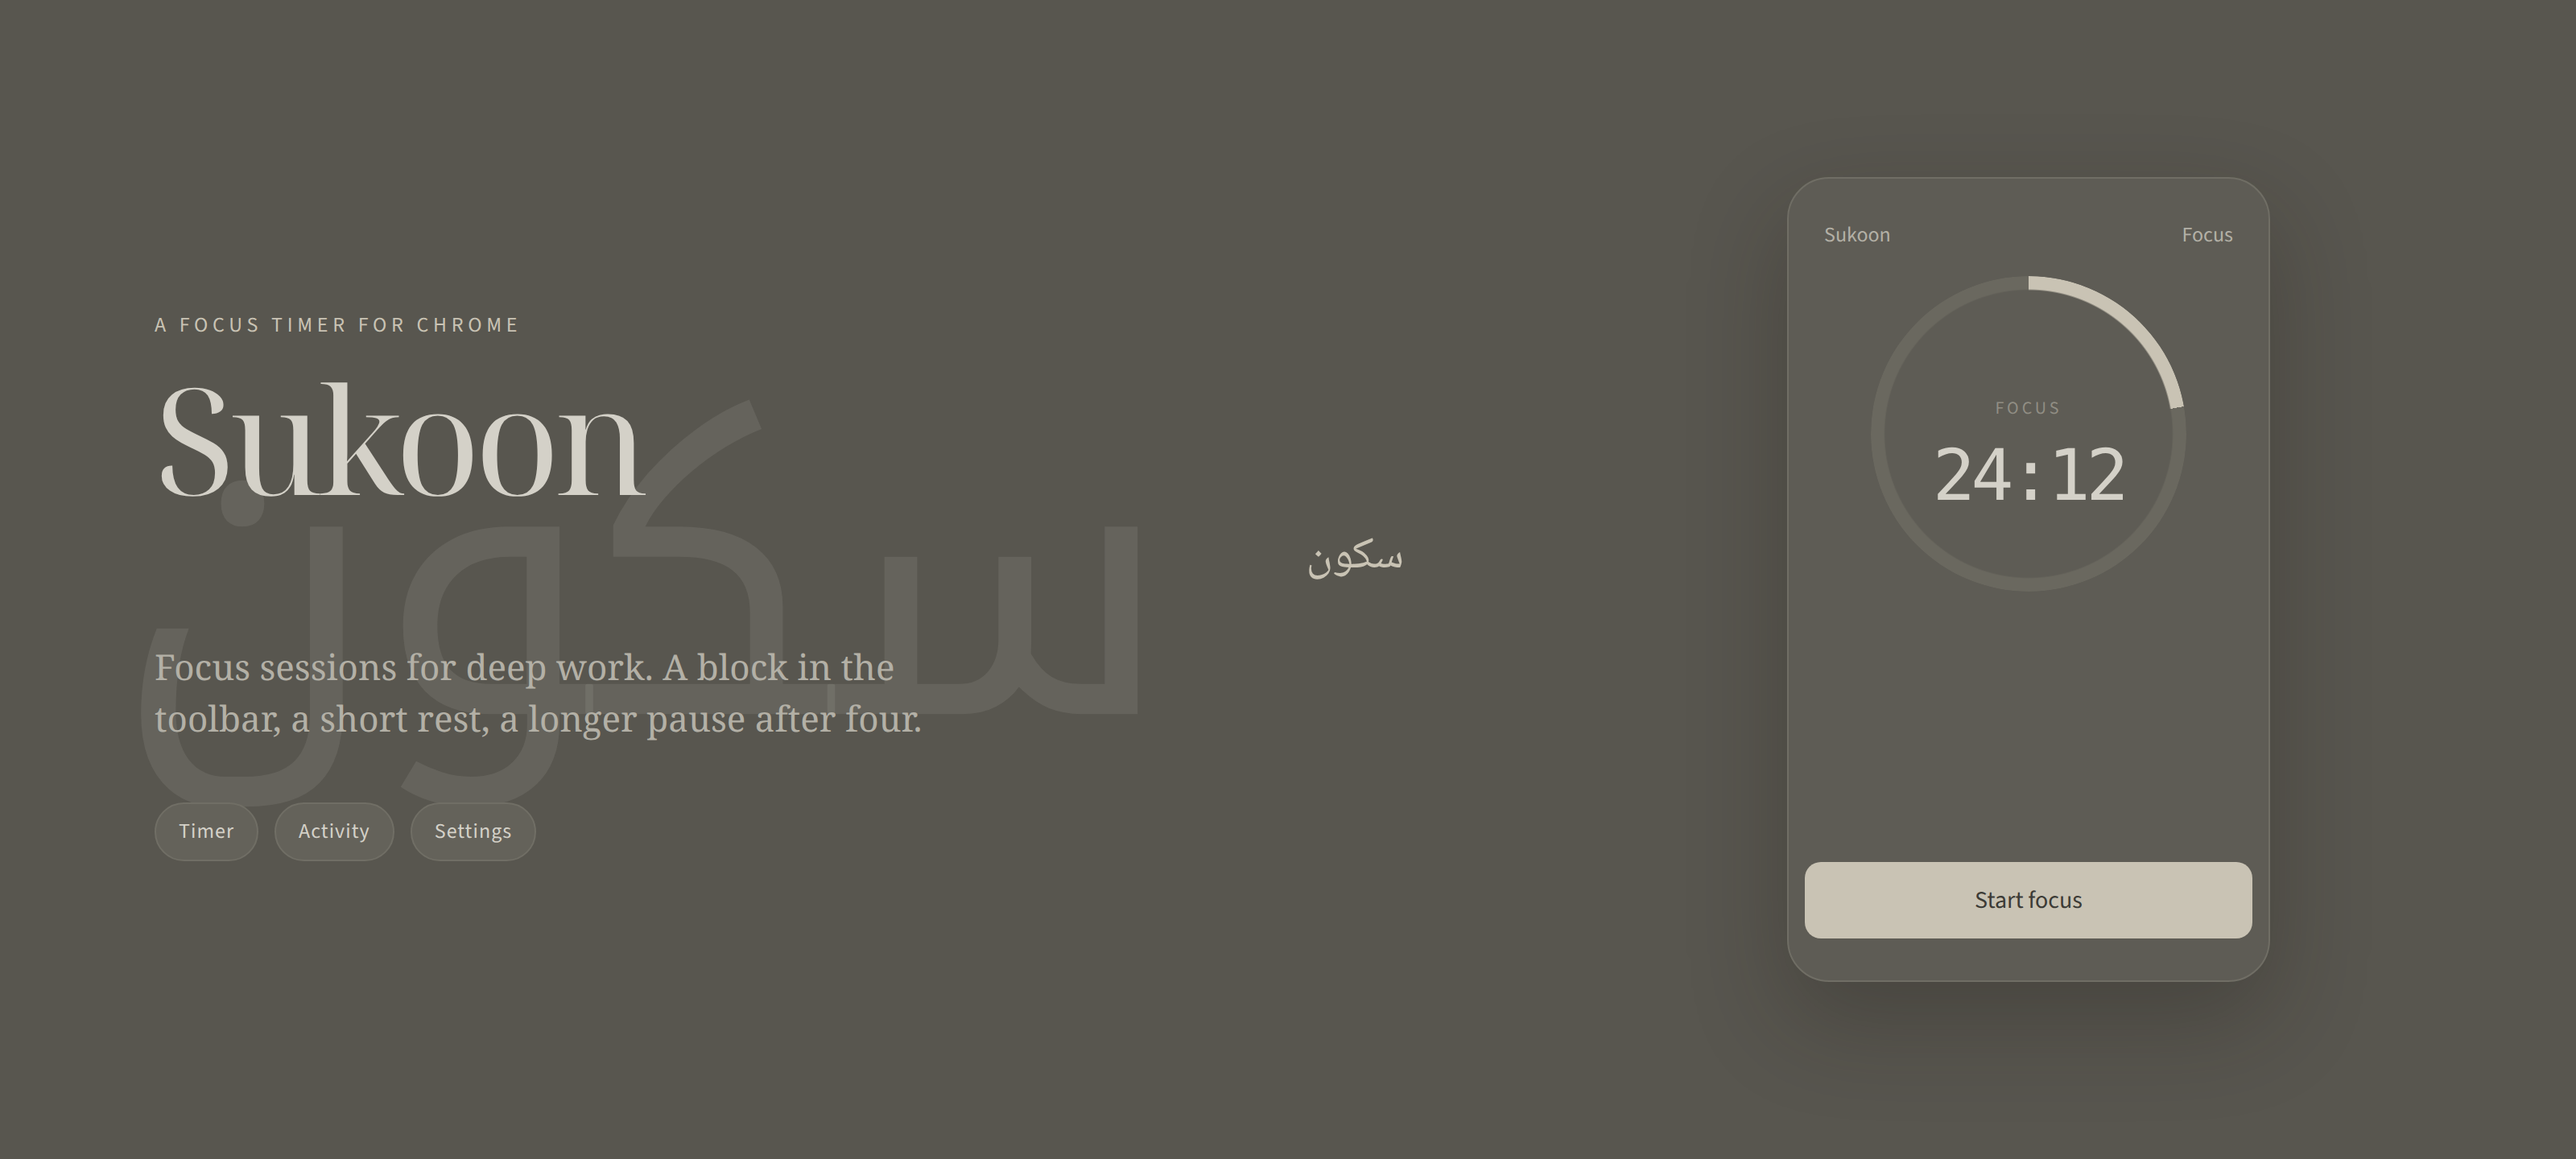
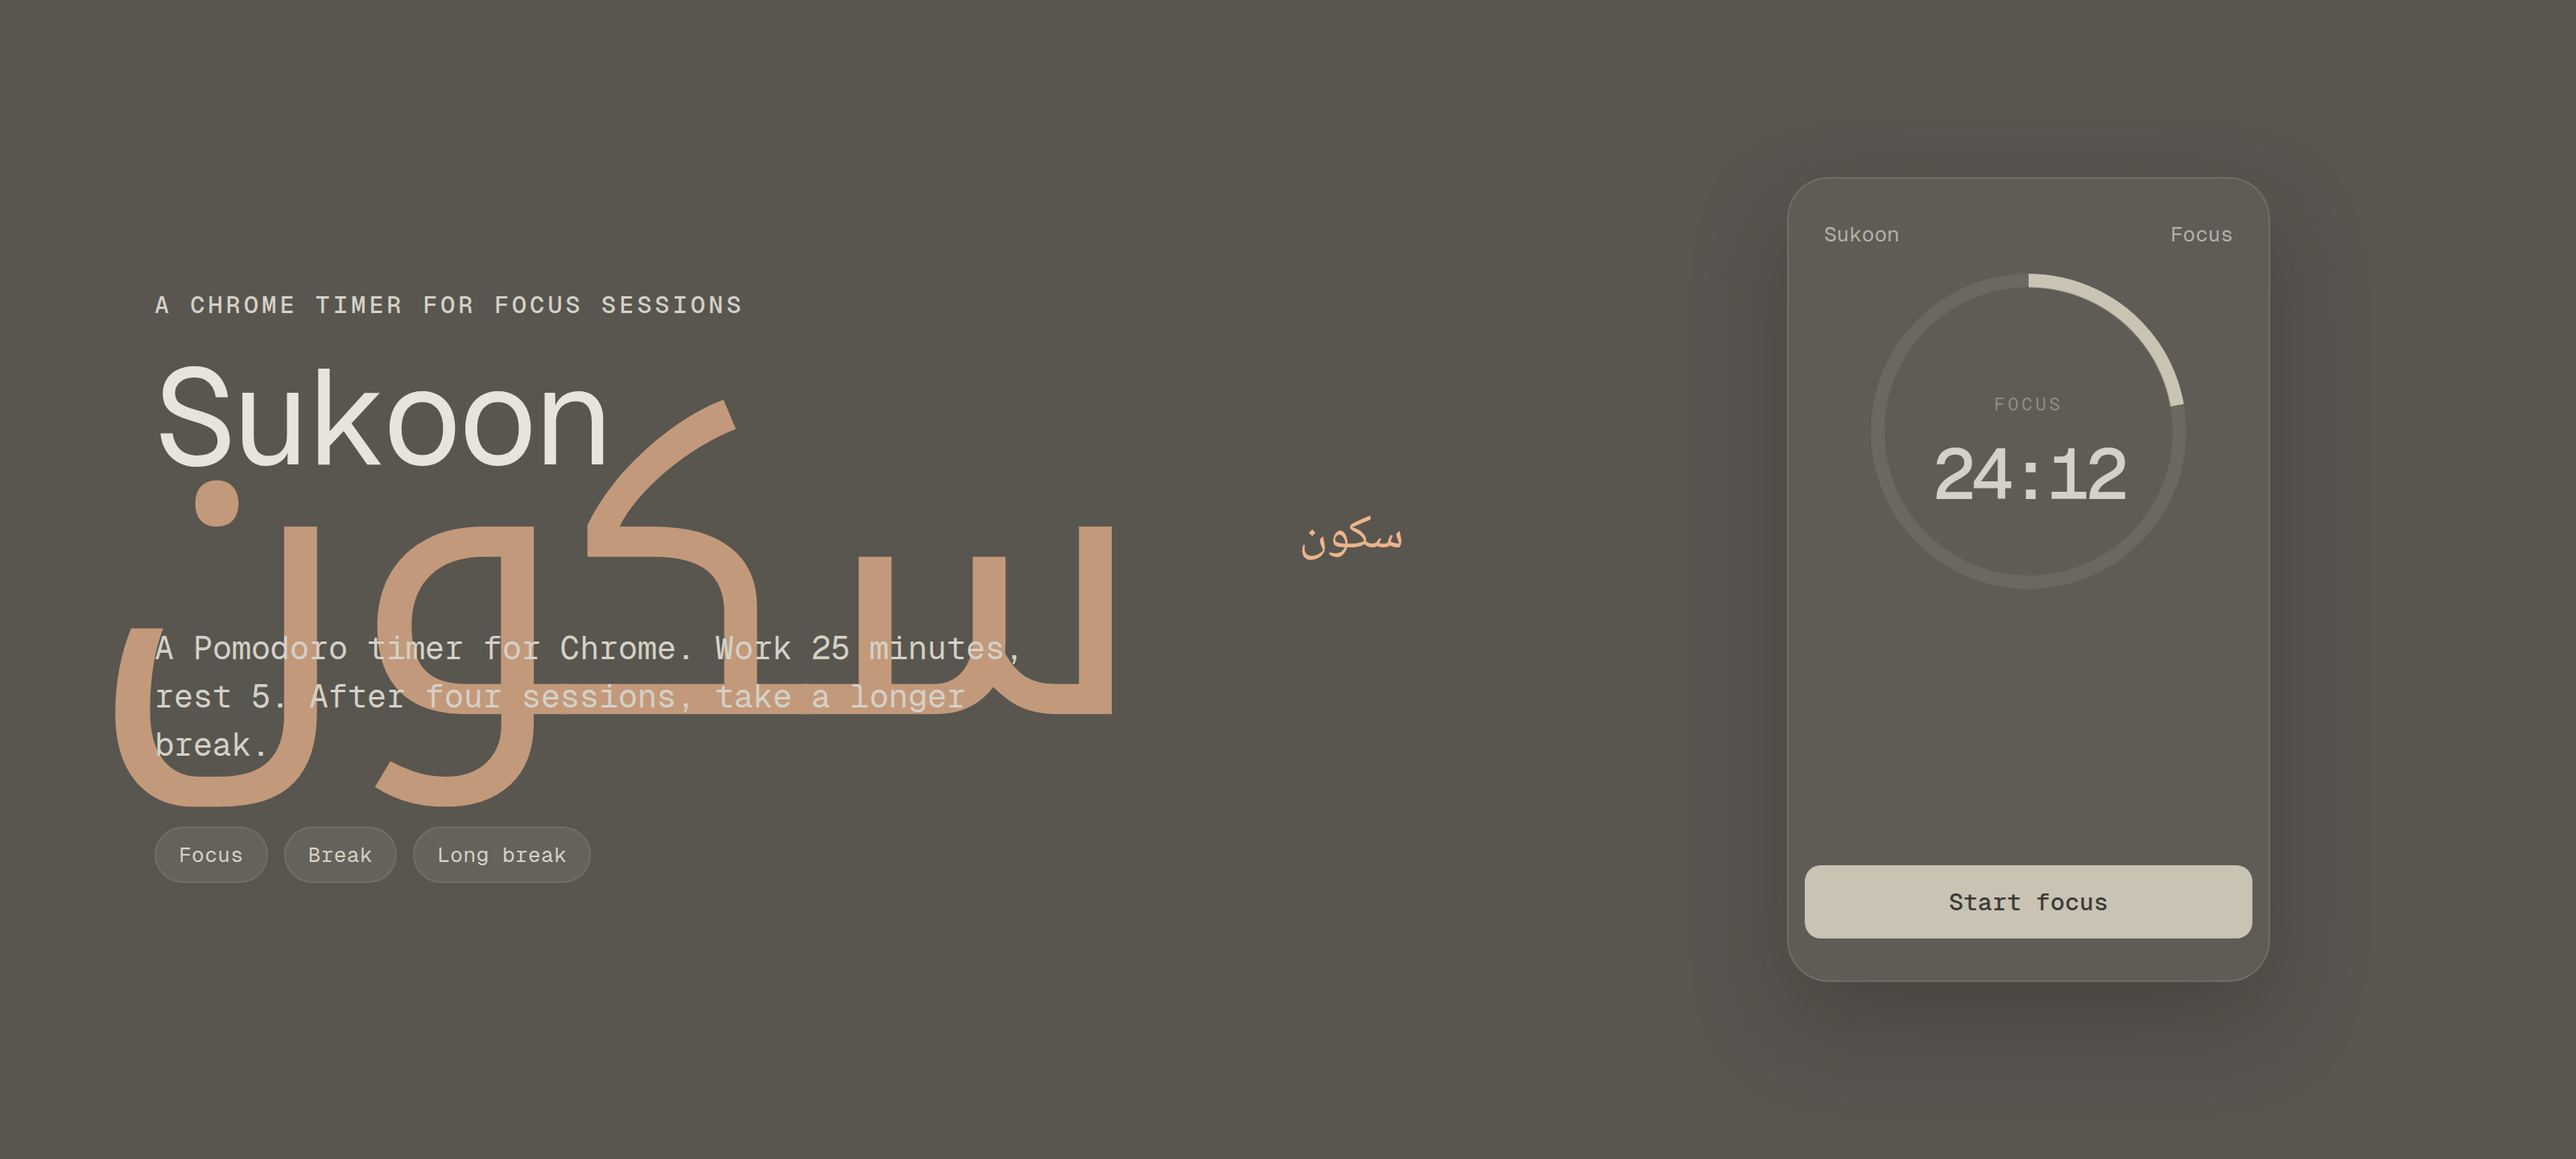
Set the cover in Geist Mono and spell out the product in English
Banner kicker and body use Geist Mono. Background سكون is rose-gold amber
so it reads. Copy says it is a Chrome Pomodoro timer: 25 minutes of work,
5 of rest, a longer break after four. README setup is the clicks for
local load and the Chrome Web Store zip.

diff --git a/docs/banners/moment.html b/docs/banners/moment.html
@@ -4,6 +4,30 @@
     <meta charset="UTF-8" />
     <title>Sukoon</title>
     <style>
+      @font-face {
+        font-family: "Geist Mono";
+        src: url("./fonts/GeistMono-Regular.woff2") format("woff2");
+        font-weight: 400;
+        font-style: normal;
+        font-display: block;
+      }
+
+      @font-face {
+        font-family: "Geist Mono";
+        src: url("./fonts/GeistMono-Medium.woff2") format("woff2");
+        font-weight: 500;
+        font-style: normal;
+        font-display: block;
+      }
+
+      @font-face {
+        font-family: "Geist Mono";
+        src: url("./fonts/GeistMono-SemiBold.woff2") format("woff2");
+        font-weight: 600;
+        font-style: normal;
+        font-display: block;
+      }
+
       html,
       body {
         margin: 0;
@@ -19,18 +43,19 @@
         grid-template-columns: 1.15fr 0.85fr;
         overflow: hidden;
         position: relative;
-        font-family: "Source Sans 3", "Segoe UI", sans-serif;
+        font-family: "Geist Mono", ui-monospace, monospace;
       }
 
       .mark {
         position: absolute;
-        left: 72px;
+        left: 56px;
         top: 50%;
         transform: translateY(-48%);
         font-family: "Noto Kufi Arabic", "Noto Naskh Arabic", serif;
         font-size: 240px;
         line-height: 0.85;
-        color: rgba(212, 209, 200, 0.11);
+        color: #edb48c;
+        opacity: 0.72;
         pointer-events: none;
         z-index: 0;
       }
@@ -49,37 +74,37 @@
       }
 
       .kicker {
-        font-size: 13px;
-        letter-spacing: 0.22em;
+        font-size: 15px;
+        font-weight: 500;
+        letter-spacing: 0.14em;
         text-transform: uppercase;
-        color: #c9c3b4;
-        margin-bottom: 20px;
+        color: #d4d1c8;
+        margin-bottom: 22px;
       }
 
       h1 {
         margin: 0;
-        font-family: "Noto Serif Display", "Noto Serif", Georgia, serif;
-        font-size: 92px;
+        font-size: 84px;
         font-weight: 400;
         letter-spacing: -0.04em;
-        line-height: 0.88;
-        color: #d4d1c8;
+        line-height: 0.9;
+        color: #e8e4dc;
       }
 
       .arabic {
-        margin-top: 10px;
+        margin-top: 12px;
         font-family: "Noto Naskh Arabic", serif;
-        font-size: 28px;
-        color: #c9c3b4;
+        font-size: 30px;
+        color: #edb48c;
       }
 
       .lede {
         margin: 28px 0 0;
-        max-width: 520px;
-        font-family: "Noto Serif", Georgia, serif;
-        font-size: 22px;
-        line-height: 1.45;
-        color: #b3b0a6;
+        max-width: 540px;
+        font-size: 20px;
+        font-weight: 400;
+        line-height: 1.5;
+        color: #d4d1c8;
       }
 
       .pills {
@@ -95,7 +120,7 @@
         border-radius: 999px;
         padding: 8px 14px;
         font-size: 13px;
-        letter-spacing: 0.04em;
+        letter-spacing: 0.02em;
       }
 
       .stage {
@@ -150,7 +175,6 @@
       }
 
       .time strong {
-        font-family: "DejaVu Sans Mono", ui-monospace, monospace;
         font-size: 44px;
         font-weight: 500;
         letter-spacing: -0.06em;
@@ -166,6 +190,7 @@
         text-align: center;
         padding: 13px 12px;
         font-size: 15px;
+        font-weight: 500;
       }
     </style>
   </head>
@@ -173,16 +198,16 @@
     <div class="artboard">
       <div class="mark" lang="ar" dir="rtl" aria-hidden="true">سكون</div>
       <div class="copy">
-        <div class="kicker">A focus timer for Chrome</div>
+        <div class="kicker">A Chrome timer for focus sessions</div>
         <h1>Sukoon</h1>
         <div class="arabic" lang="ar" dir="rtl">سكون</div>
         <p class="lede">
-          Focus sessions for deep work. A block in the toolbar, a short rest, a longer pause after four.
+          A Pomodoro timer for Chrome. Work 25 minutes, rest 5. After four sessions, take a longer break.
         </p>
         <div class="pills">
-          <span>Timer</span>
-          <span>Activity</span>
-          <span>Settings</span>
+          <span>Focus</span>
+          <span>Break</span>
+          <span>Long break</span>
         </div>
       </div>
       <div class="stage">

diff --git a/README.md b/README.md
@@ -1,24 +1,22 @@
 <p align="center">
-  <img src="docs/shots/banner.png" alt="Sukoon — a focus timer for Chrome" width="100%" />
+  <img src="docs/shots/banner.png" alt="Sukoon — a Pomodoro timer for Chrome" width="100%" />
 </p>
 
 # Sukoon
 
-**A focus timer for Chrome.** Focus sessions for deep work: you work a block, you rest a little, and after four rounds you take a longer pause. Pin it to the toolbar. The badge keeps the remaining minutes while you look away from the clock.
+**A Pomodoro timer for Chrome.** You work for 25 minutes, rest for 5, and after four sessions you take a longer break. Pin it on the toolbar. While it runs, the icon shows how much time you have left.
 
-*Sukoon* (سكون) is Arabic for stillness — said **soo-KOON**. The quiet you enter to work.
-
-The face matches the clock: clay, dust, dry stone.
+*Sukoon* (سكون) is Arabic for stillness — said **soo-KOON**.
 
 ![Using Sukoon](docs/demo.gif)
 
-This is a **Chrome extension**. It is not an iPhone app, not a Mac app, and it does not go through the Apple App Store. You publish it on the [Chrome Web Store](https://chrome.google.com/webstore) — Google’s store for extensions.
+This is a **Chrome extension**. It does not go on the Apple App Store or Google Play. To put it in front of other people, you upload it to the [Chrome Web Store](https://chrome.google.com/webstore).
 
 ---
 
-## Run it on your machine
+## Setup (use it on your computer)
 
-You need [Node.js](https://nodejs.org/) (18 or newer) and desktop Chrome.
+You need [Node.js](https://nodejs.org/) 18+ and the Chrome desktop browser.
 
 ```bash
 git clone https://github.com/shahjacobb/Forge-Extension.git
@@ -27,24 +25,21 @@ npm install
 npm run build
 ```
 
-Then load it:
+Then:
 
-1. Open `chrome://extensions`
-2. Turn **Developer mode** on (top right)
+1. In Chrome, open `chrome://extensions`
+2. Turn on **Developer mode** (top right)
 3. Click **Load unpacked**
-4. Choose the **`dist`** folder inside the repo — not the repo root, not `src`
+4. Select the **`dist`** folder (the one inside this repo, next to `package.json`)
 5. Pin **Sukoon** on the toolbar
 
-That is the whole local setup. After you change code: `npm run build`, then **Reload** on the extension card.
+If you change the code later: run `npm run build` again, then click **Reload** on the extension card.
 
-### Do not install it these ways
+### Do not do these
 
-- **GitHub → Code → Download ZIP.** That zip is the source repo (README, `src/`, configs). Chrome cannot load it as an extension, and the Chrome Web Store will reject it.
-- **A “Chrome extension downloader” / CRX extractor.** Those extensions scrape `.crx` files out of the store. They are the wrong tool for this project, they skip review, and they are a common malware vector. This repo is not installed that way.
-- **Dragging a zip onto `chrome://extensions`.** Chrome wants an **unpacked folder** (`dist/`) for local testing, or a zip you built with `npm run package` for the store dashboard — not a GitHub zip, not a CRX from a downloader.
-
-To try it: clone, `npm run build`, Load unpacked → `dist/`.
-To publish: `npm run package`, then upload **`sukoon.zip`** in the [Chrome Web Store dashboard](https://chrome.google.com/webstore/devconsole).
+- **GitHub → Code → Download ZIP.** That is the source code. Chrome will not treat it as an extension.
+- **A CRX / “Chrome extension downloader.”** Do not install this project that way.
+- **Dropping a zip onto `chrome://extensions`.** For local testing, load the **folder** `dist/`. For the public store, upload the zip from `npm run package` (see below).
 
 ---
 
@@ -115,54 +110,51 @@ Needs a `.env.local` with Supabase keys (see Development). Without keys, the tim
 
 ---
 
-## Publish to the Chrome Web Store
+## Put it on the Chrome Web Store
 
-The store for Chrome extensions is the **Chrome Web Store**, via the [Developer Dashboard](https://chrome.google.com/webstore/devconsole). That is not the Apple App Store, not Google Play, and not a “download the repo zip” flow.
+I cannot log into your Google account or pay Google’s fee from here. You upload it yourself. It takes one zip and the [Developer Dashboard](https://chrome.google.com/webstore/devconsole).
 
-### Make the zip (this is the file you upload)
+### 1. Make the zip
 
-From the project root, after you have Node installed:
+In the project folder:
 
 ```bash
 npm install
 npm run package
 ```
 
-That command builds the extension and writes **`sukoon.zip`** next to `package.json`. Upload **that** file.
+That creates **`sukoon.zip`** next to `package.json`. That file is what Google wants.
 
-What `sukoon.zip` is: the contents of `dist/` (manifest, HTML, scripts, icons).
-What it is not: GitHub **Code → Download ZIP**. That download is the repository. The store will reject it, or Chrome will not treat it as an extension.
+### 2. One-time account
 
-If you prefer to zip by hand:
+1. Open the [Chrome Web Store Developer Dashboard](https://chrome.google.com/webstore/devconsole)
+2. Sign in with the Google account that should own the listing
+3. Pay the one-time registration fee if Google asks (it is a few dollars, once)
+4. If you turned on account sync, host a short privacy policy page and keep the URL. The form asks for it.
+
+### 3. Upload
+
+1. Dashboard → **New item** (first time) or your item → **Package** (updates)
+2. Upload `sukoon.zip` — not a GitHub zip
+3. Fill in:
+   - Name: Sukoon
+   - Summary: Pomodoro timer for Chrome. 25 minutes of work, 5 minutes of rest, a longer break after four sessions.
+   - Category: Productivity
+   - Screenshots: `docs/shots/timer.png`, `running.png`, `activity.png`, `month.png`, `settings.png`, `complete.png` (Google wants 1280×800 or 640×400 — scale them if the form complains)
+   - Small tile: `public/icon-128.png`
+   - Marquee: `docs/shots/banner.png`
+4. Privacy: single purpose; add `your-project.supabase.co` if sync is on; justify `storage`, `alarms`, `notifications`, `offscreen`
+5. Click **Submit for review**
+
+Google emails you when it is live or if they bounce it. Later updates: bump `version` in `public/manifest.json`, run `npm run package`, upload the new zip, submit again.
+
+If you would rather zip by hand:
 
 ```bash
 npm run build
 cd dist
 zip -r ../sukoon.zip .
 ```
-
-### One-time, as the publisher
-
-1. Pay the one-time [Chrome Web Store developer](https://chrome.google.com/webstore/devconsole) registration fee.
-2. If account sync is on, host a short privacy policy (email + session data via Supabase). The listing form asks for the URL.
-
-### Each release
-
-1. Bump `version` in `public/manifest.json` (it is `0.5.0` now).
-2. Run `npm run package`.
-3. Dashboard → **New item**, or the existing item → **Package**.
-4. Upload `sukoon.zip`.
-5. Listing copy:
-   - Name: Sukoon
-   - Summary: A focus timer for Chrome. Focus sessions for deep work, a short rest, a longer pause after four.
-   - Category: Productivity
-   - Screenshots: `docs/shots/timer.png`, `running.png`, `activity.png`, `month.png`, `settings.png`, `complete.png` (the store wants 1280×800 or 640×400 — scale these if the form rejects the raw popup size)
-   - Small tile: `public/icon-128.png`
-   - Marquee: `docs/shots/banner.png`
-6. Privacy: single purpose; remote host (`your-project.supabase.co` if sync is on); justify `storage`, `alarms`, `notifications`, `offscreen`.
-7. **Submit for review**. Google emails you when it is live or when they bounce it.
-
-Updates: bump `version`, `npm run package`, upload the new zip, submit again.
 
 ---
 
